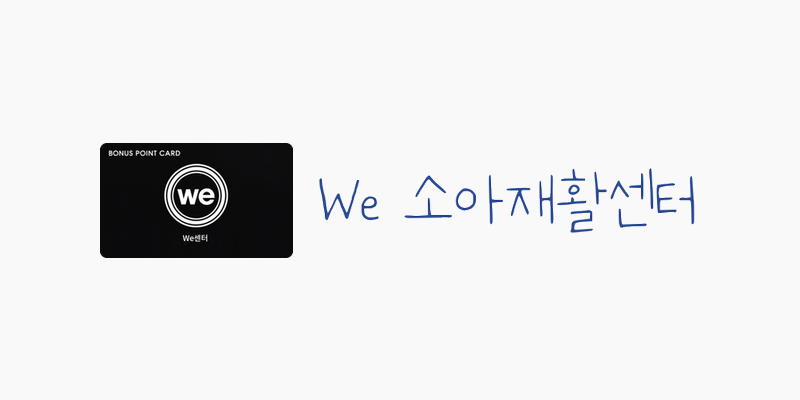
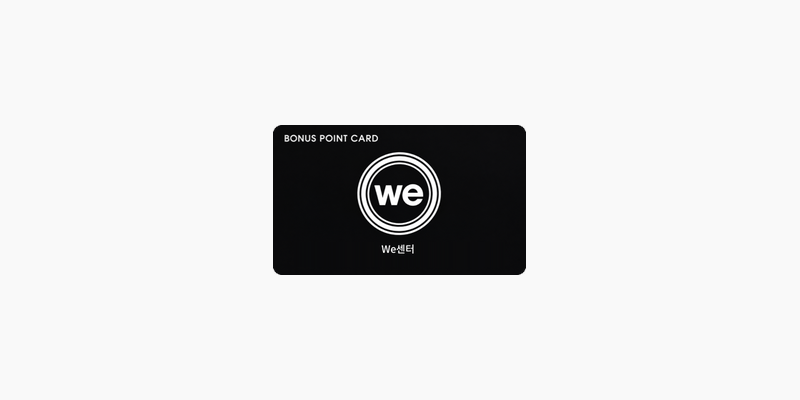
선결제 알림 그림: 글씨 없이 가운데 검은 카드만

Changed region(s): [[0.125, 0.3, 0.875, 0.69]]

diff --git a/src/lib/messages.ts b/src/lib/messages.ts
@@ -129,7 +129,7 @@ export const DEFAULT_TEMPLATES: DefaultTemplate[] = [
   },
   {
     id: 'prepaid_use', grp: 'prepaid', label: '선결제 사용·충전·변경 알림', sort: 10,
-    // 그림 = 통과한 We 가로형 로고에서 왼쪽 아이콘만 검은 선결제 카드로 바꾼 것 (public/alimtalk/card.png)
+    // 그림 = 통과한 로고형처럼 #F9F9F9 바탕 가운데 600×150 칸에 검은 선결제 카드만 (public/alimtalk/card.png)
     spec: { image: 'card', title: '#{이름} 님 선결제 #{구분}', sub: 'We 센터',
       items: [{ name: '일자', value: '#{날짜}' }, { name: '기존 횟수', value: '#{기존횟수}회' }, { name: '변동', value: '#{변동}' }, { name: '남은 횟수', value: '#{남은횟수}회' }],
       body: '#{이름} 님, 선결제 #{구분} 내역을 안내드립니다.\n전체 내역은 아래 버튼에서 볼 수 있어요.', button: { name: '선결제 카드 보기', url: `${SITE}/mypage` } },
